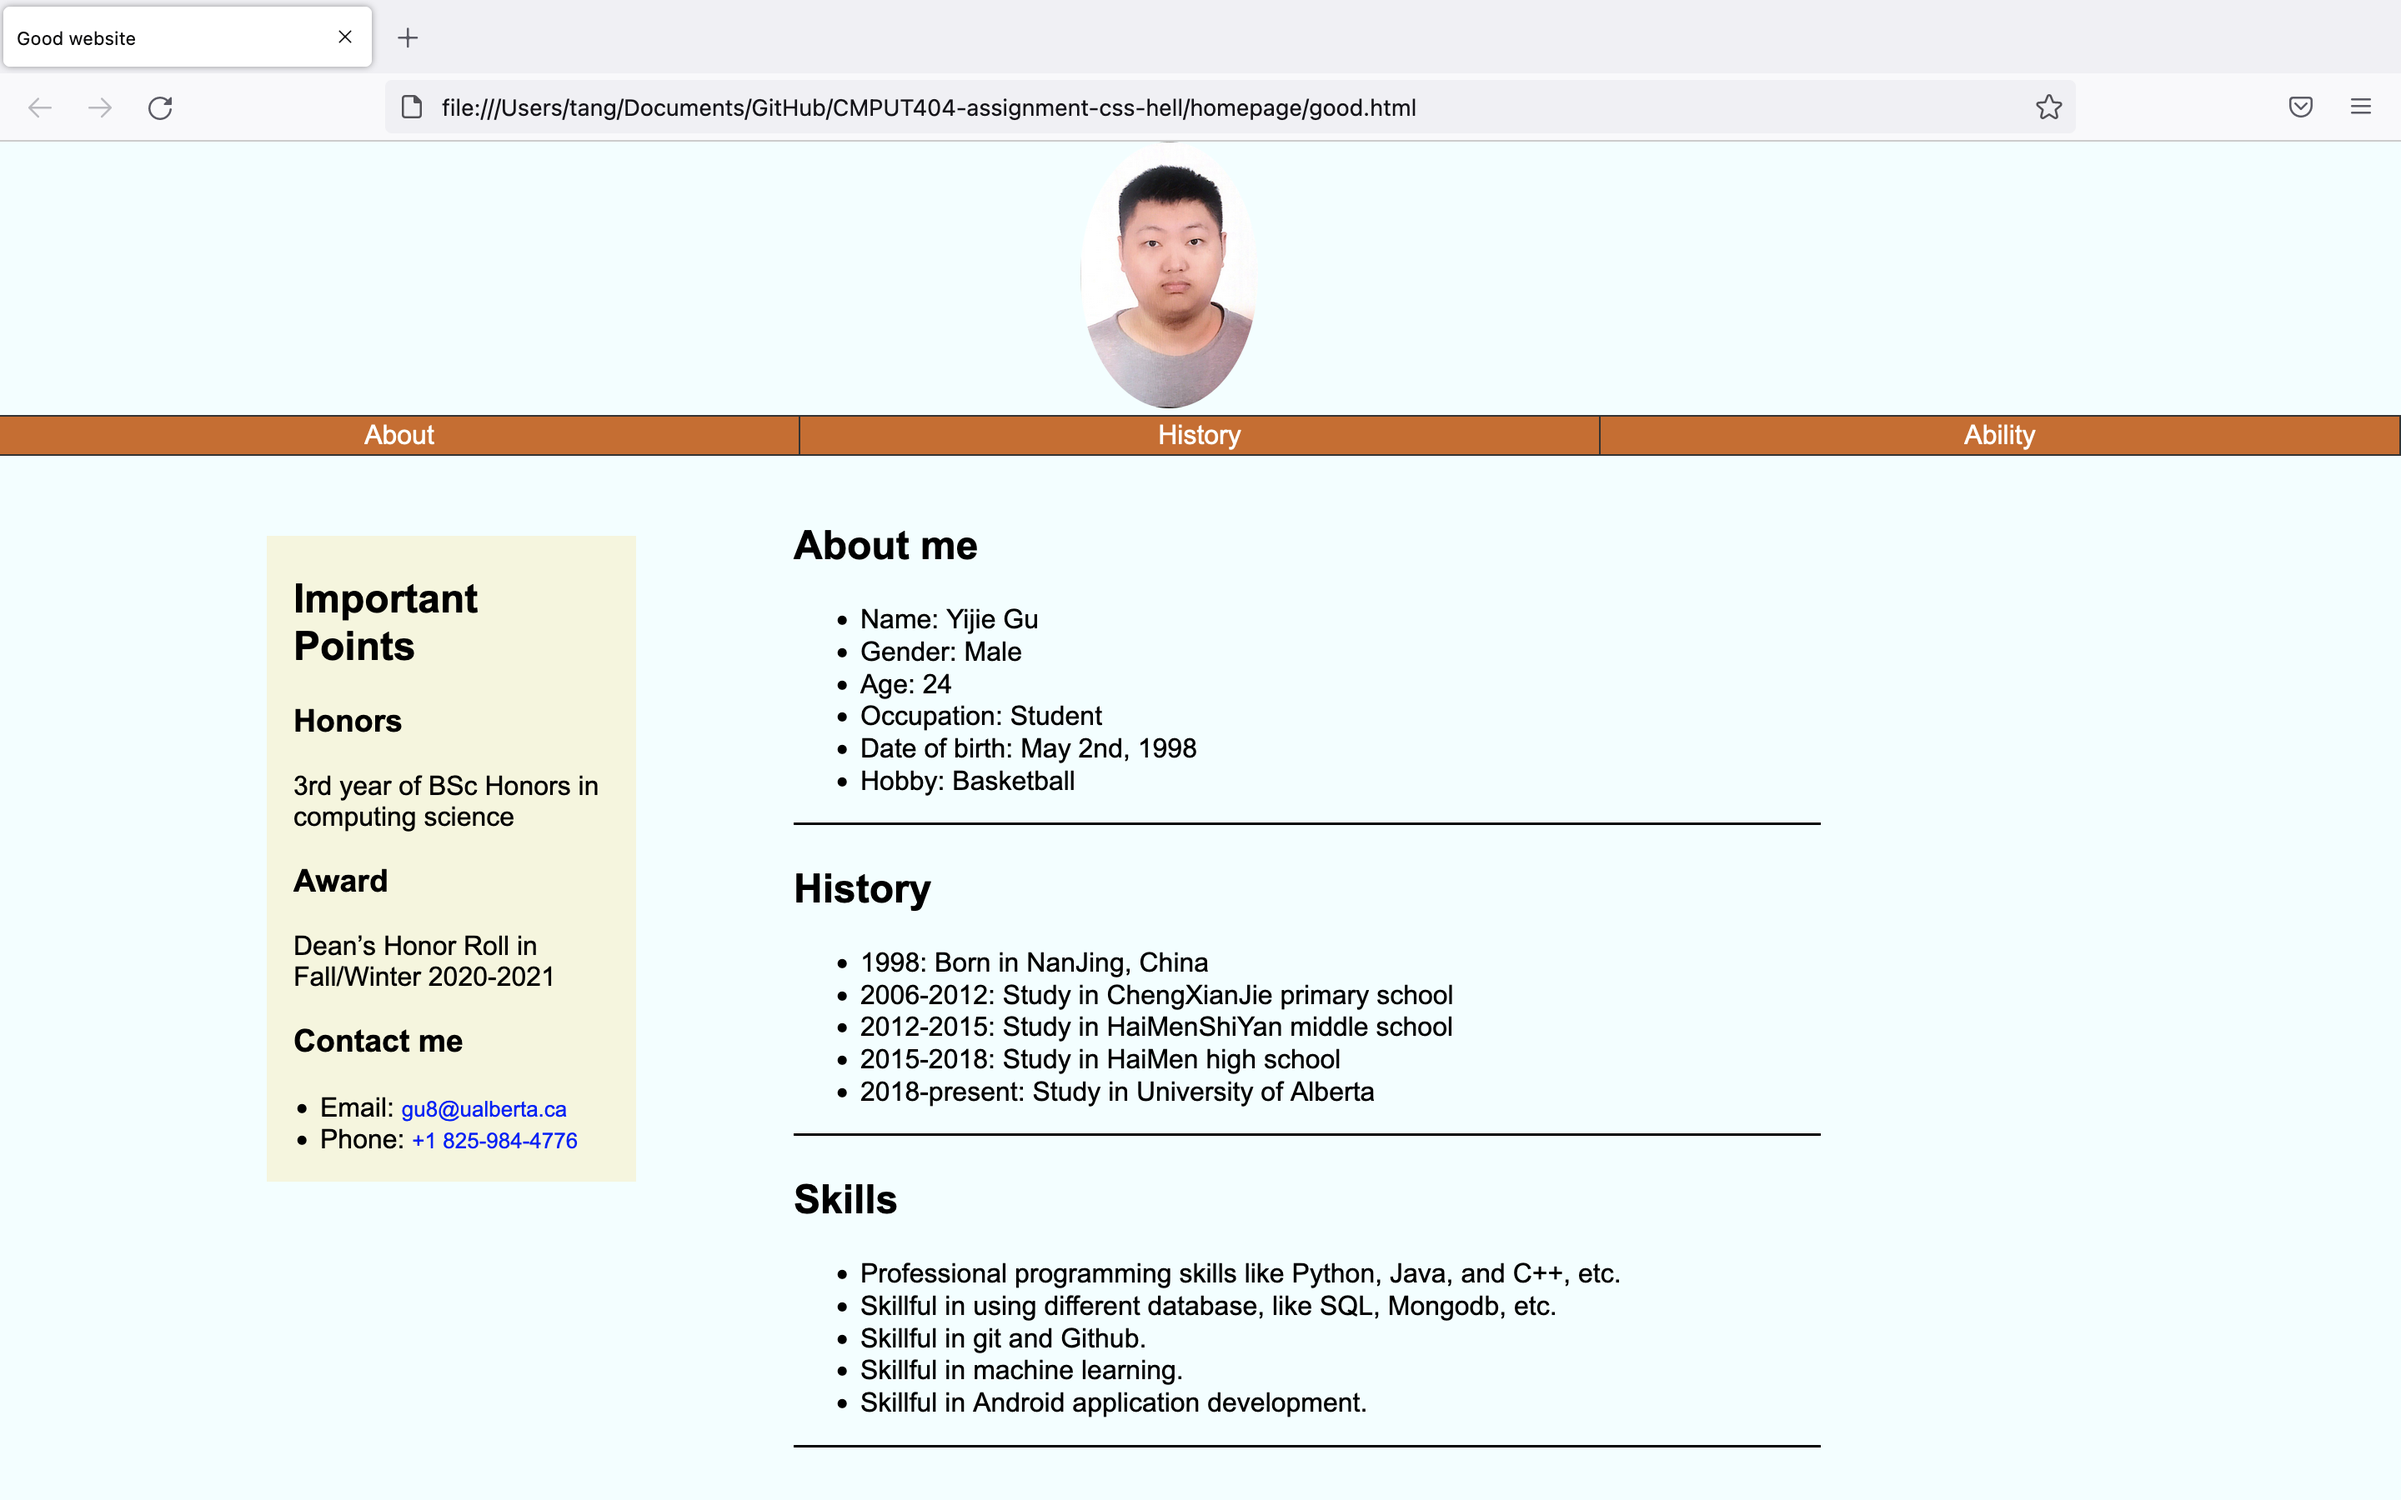
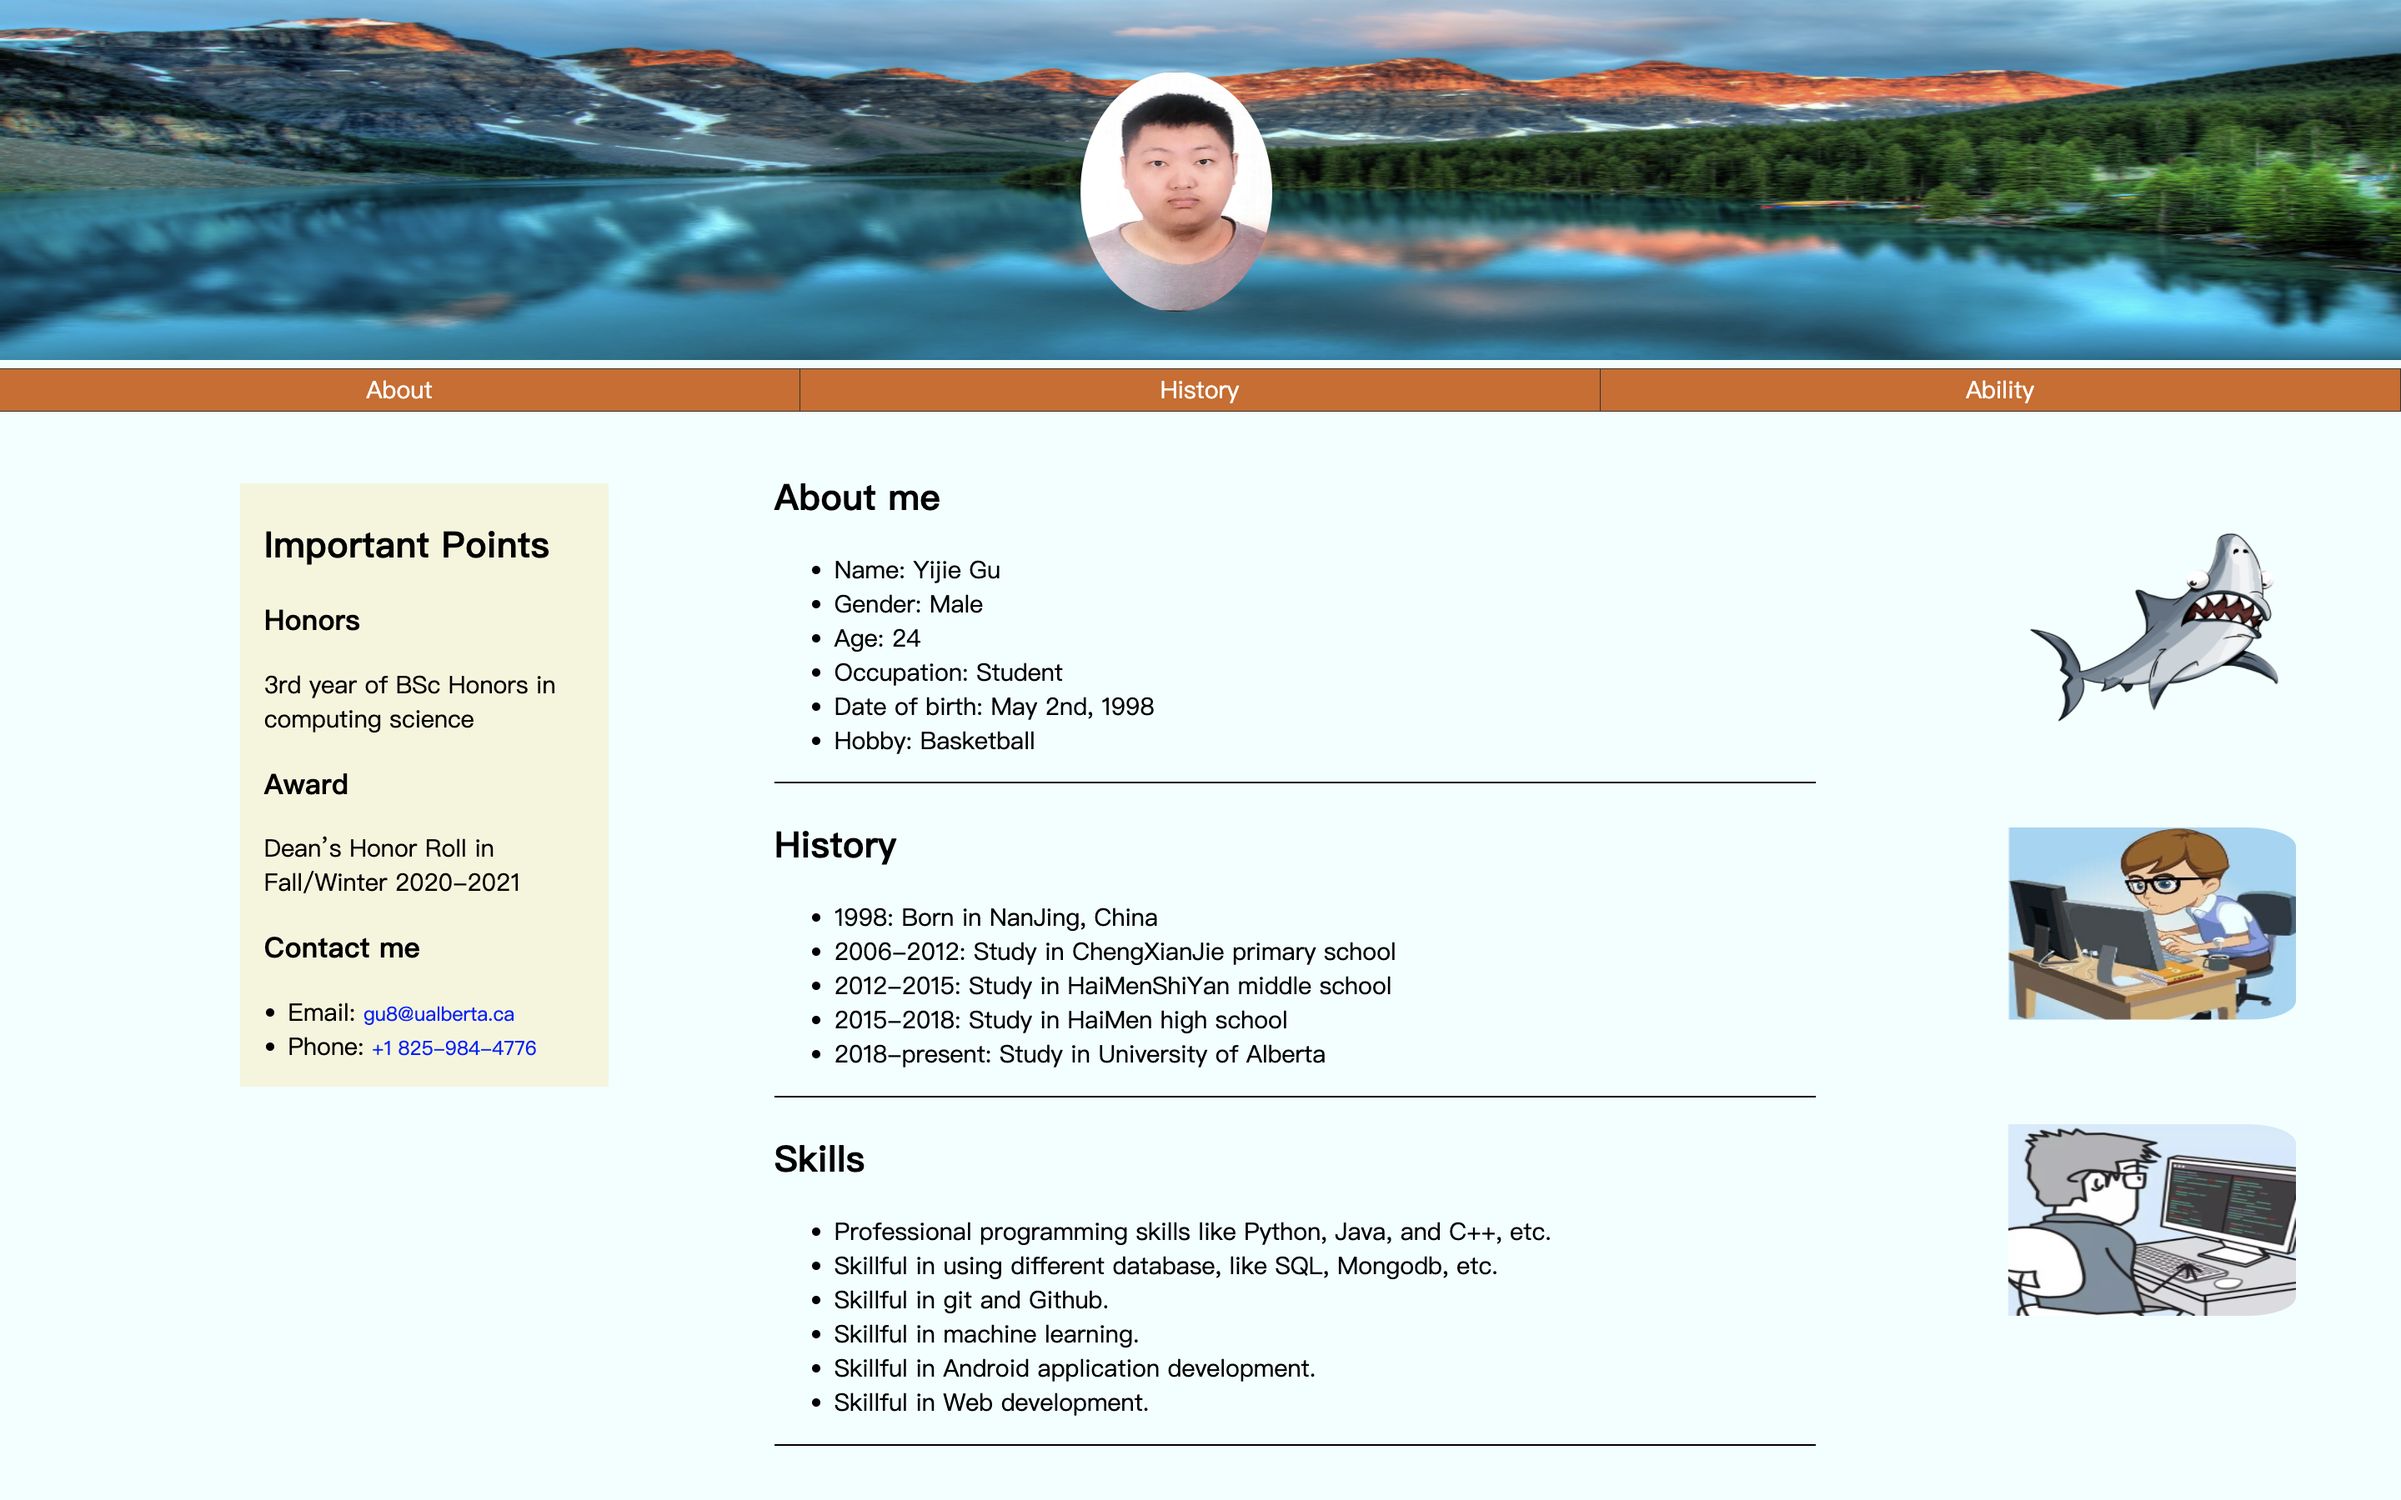
update

diff --git a/homepage/ugly.html b/homepage/ugly.html
@@ -4,7 +4,7 @@
         <title>Bad website</title>
         <link rel="stylesheet" href="./ugly.css">
     </head>
-    <body>
+        <img id="background" src="./images/photo2.png" alt="backgroud">
         <img id="title" src="./images/photo.png" alt="title">
         <div id="topnav">
             <span><a href="#About">About</a></span>
@@ -27,6 +27,7 @@
                             </ul>
                         </p>
                     </div>
+                    <img src="./images/photo3.png" alt="photo3" class="image">
                 </div>
                 <div id="History" class="section">
                     <div class="text">
@@ -41,6 +42,7 @@
                             </ul>
                         </p>
                     </div>
+                    <img src="./images/photo4.png" alt="photo4" class="image">
                 </div>
                 <div id="Ability" class="section">
                     <div class="text">
@@ -52,9 +54,11 @@
                                 <li>Skillful in git and Github.</li>
                                 <li>Skillful in machine learning.</li>
                                 <li>Skillful in Android application development.</li>
+                                <li>Skillful in Web development.</li>
                             </ul>
                         </p>
                     </div>
+                    <img src="./images/photo5.png" alt="photo5" class="image">
                 </div>
             </div>
             <div id="sideContent">

diff --git a/homepage/good.html b/homepage/good.html
@@ -5,6 +5,7 @@
         <link rel="stylesheet" href="./good.css">
     </head>
     <body>
+        <img id="background" src="./images/photo2.png" alt="backgroud">
         <img id="title" src="./images/photo.png" alt="title">
         <div id="topnav">
             <span><a href="#About">About</a></span>
@@ -27,6 +28,7 @@
                             </ul>
                         </p>
                     </div>
+                    <img src="./images/photo3.png" alt="photo3" class="image">
                 </div>
                 <div id="History" class="section">
                     <div class="text">
@@ -41,6 +43,7 @@
                             </ul>
                         </p>
                     </div>
+                    <img src="./images/photo4.png" alt="photo4" class="image">
                 </div>
                 <div id="Ability" class="section">
                     <div class="text">
@@ -52,9 +55,12 @@
                                 <li>Skillful in git and Github.</li>
                                 <li>Skillful in machine learning.</li>
                                 <li>Skillful in Android application development.</li>
+                                <li>Skillful in Web development.</li>
+
                             </ul>
                         </p>
                     </div>
+                    <img src="./images/photo5.png" alt="photo5" class="image">
                 </div>
             </div>
             <div id="sideContent">

diff --git a/homepage/ugly.css b/homepage/ugly.css
@@ -1,5 +1,5 @@
 body {
-    background-color: red;
+    background-color: green;
     margin-top: 0pt;
     margin-left: 0pt;
     margin-right: 0pt;
@@ -7,10 +7,18 @@ body {
 }
 
 
+#background {
+    width: 100%;
+    height: 5em;
+}
+
+
 #title {
     height: 10em;
-    position: relative;
-    left: 10%;
+    width: 8em;
+    position: absolute;
+    left: 60%;
+    top: 1em;
     border-radius: 100%;
 }
 
@@ -30,7 +38,7 @@ body {
 #sideContent {
     margin-top: 2em;
     margin-right: 2em;
-    width: 20%;
+    width: 11%;
     float: left;
     background-color: #00ff00;
     padding-left: 1em;
@@ -42,6 +50,15 @@ body {
     float: left;
     border-bottom: 0.1em solid black;
     
+}
+
+.image {
+    margin-top: 3em;
+    width: 70%;
+    height: 9em;
+    max-width: 3em;
+    padding-left: 8em;
+    border-radius: 10%;
 }
 
 .texts{

diff --git a/homepage/good.css b/homepage/good.css
@@ -6,11 +6,18 @@ body {
     
 }
 
+#background {
+    width: 100%;
+    height: 15em;
+}
+
 
 #title {
     height: 10em;
-    position: relative;
+    width: 8em;
+    position: absolute;
     left: 45%;
+    top: 3em;
     border-radius: 100%;
 }
 
@@ -42,6 +49,15 @@ body {
     float: left;
     border-bottom: 0.1em solid black;
     
+}
+
+.image {
+    margin-top: 4em;
+    width: 30%;
+    height: 8em;
+    max-width: 12em;
+    padding-left: 8em;
+    border-radius: 10%;
 }
 
 .texts{
